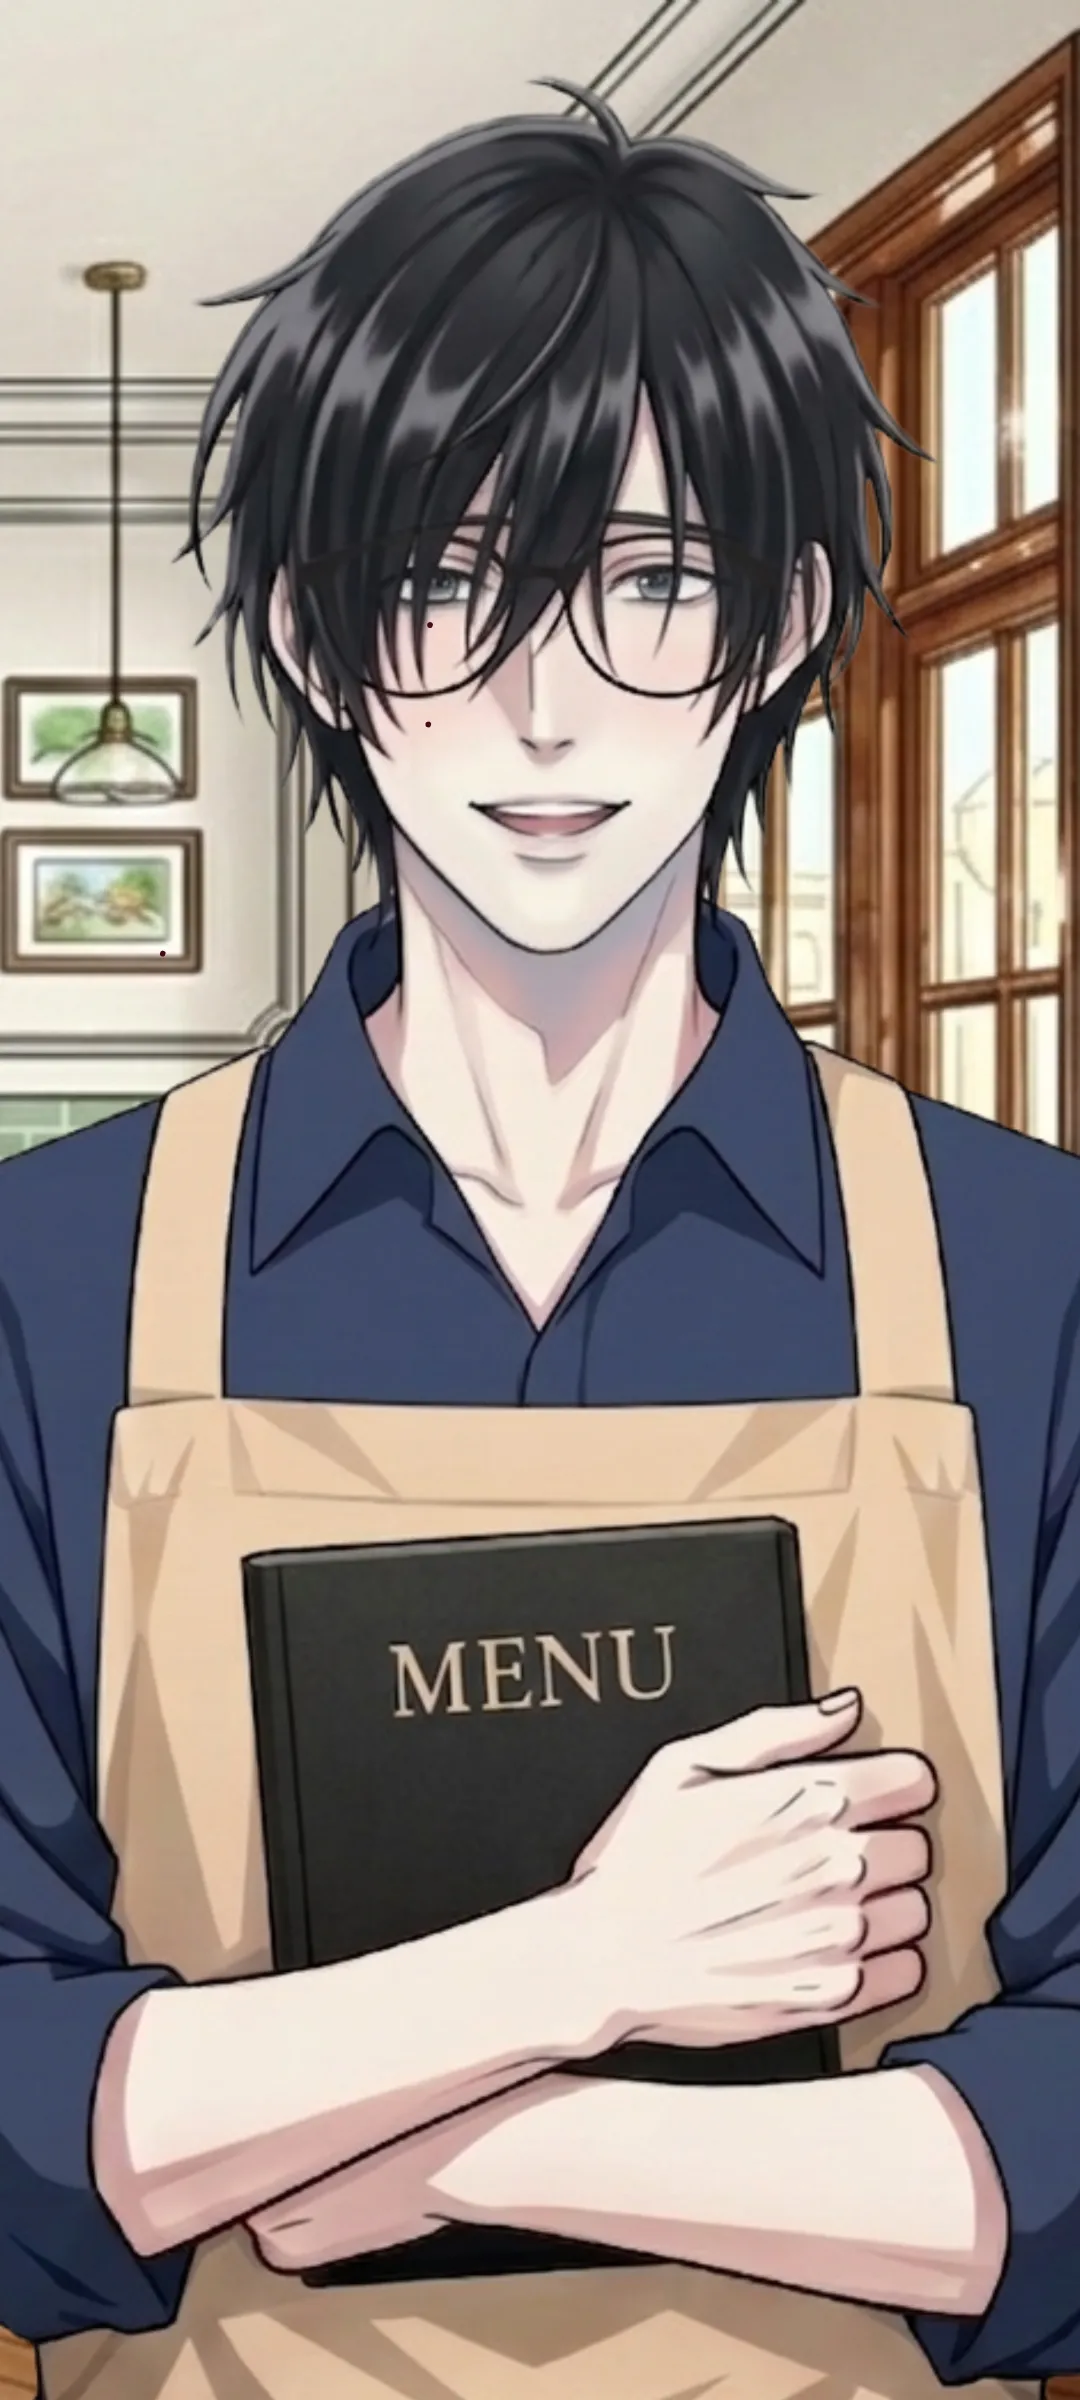
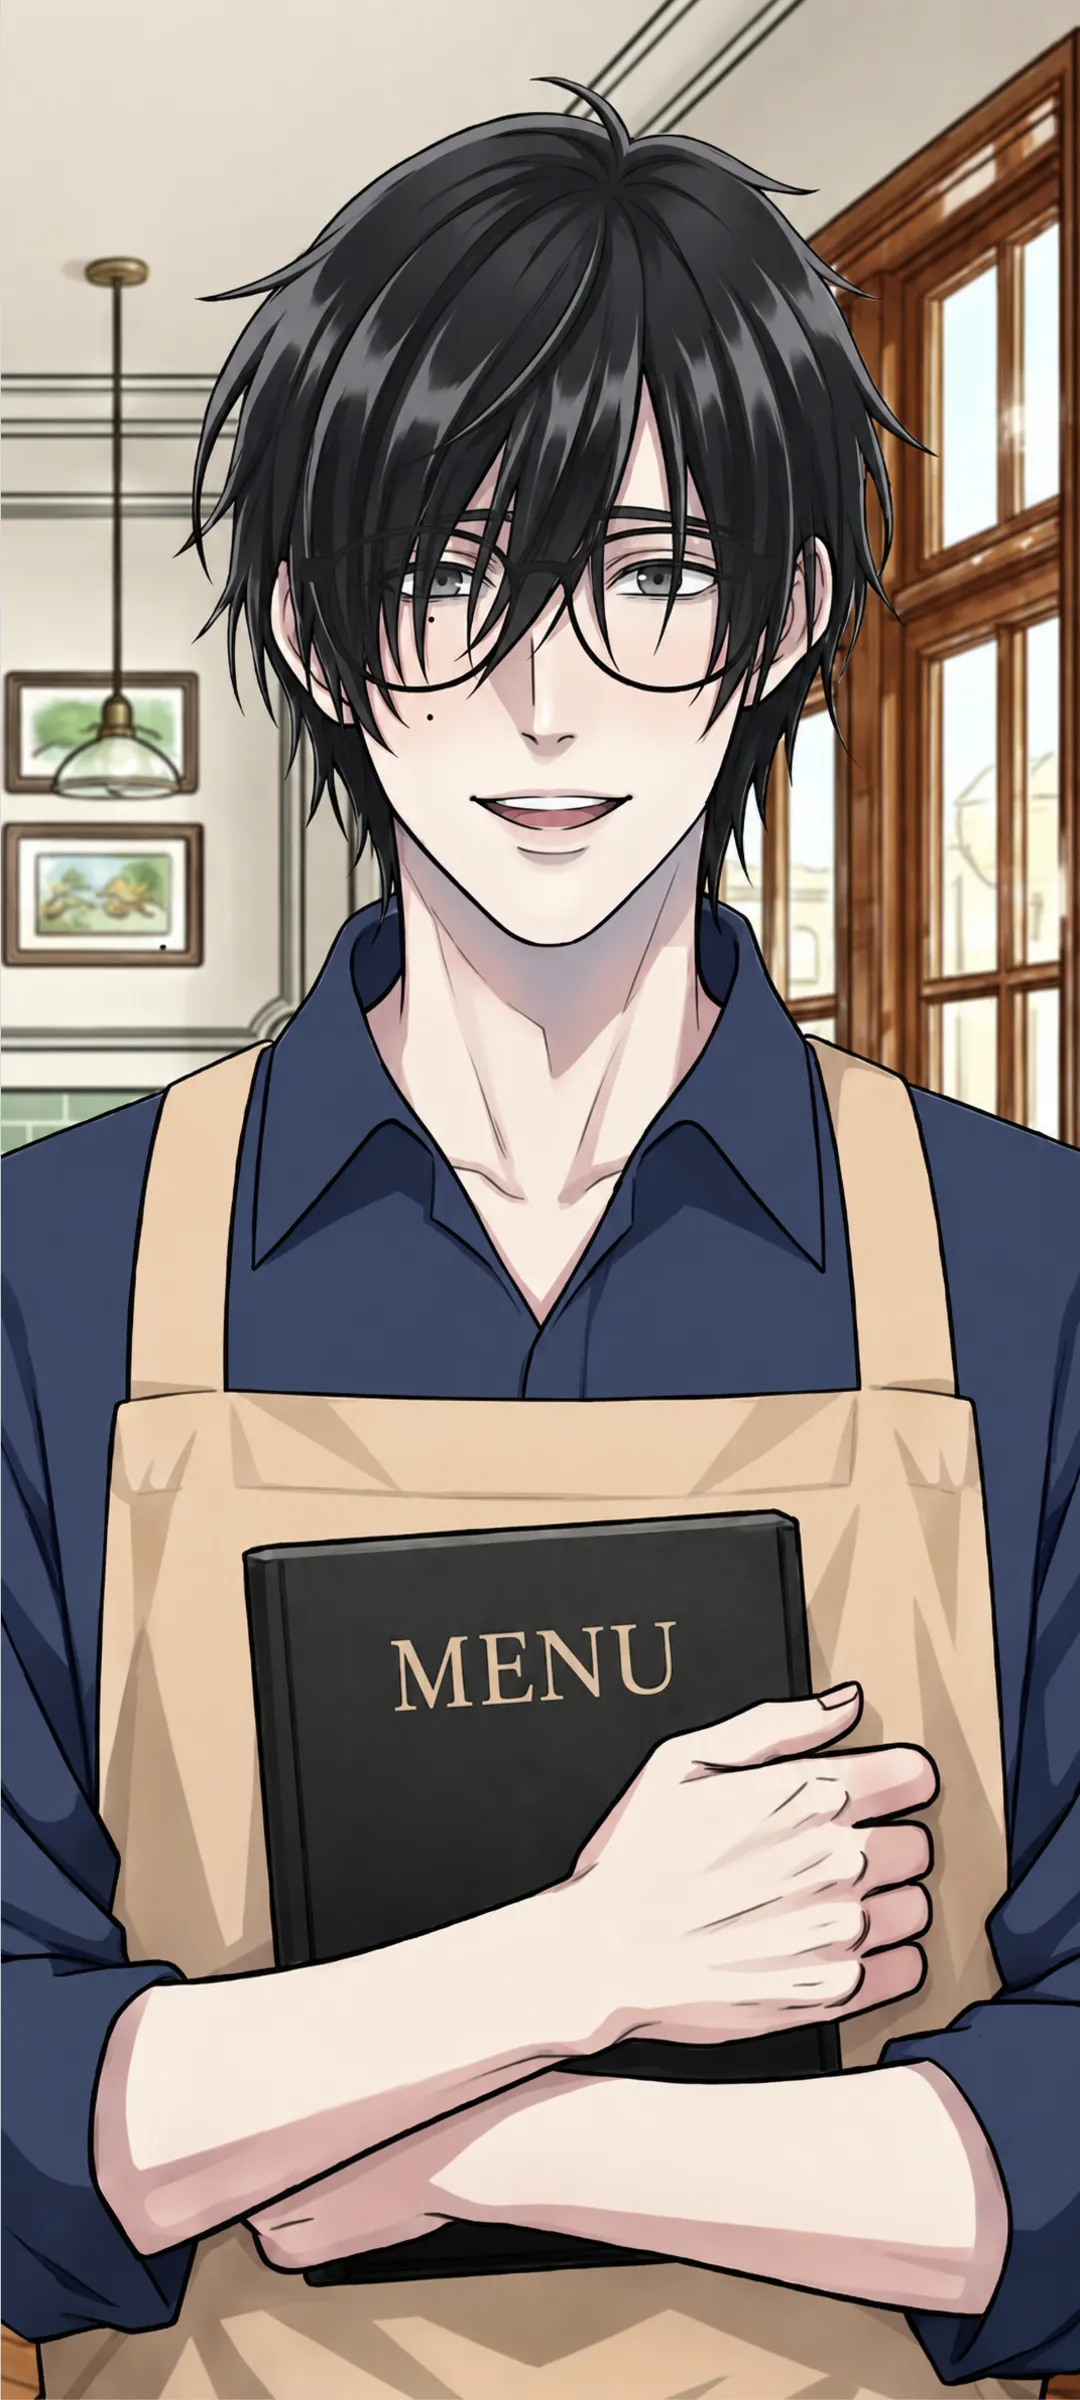
「既読にする処理」と「読んだ時刻を記録する処理」を、バナーの文言がIINE画面に表示された瞬間に

diff --git a/logic-router.js b/logic-router.js
@@ -2185,6 +2185,13 @@ function handleBannerAwareTaskReport(reportedTask, userTaskReportText, initialDe
     appendLineMessage('mobu', bannerText, initialDelay);
     initialDelay += 1500;
 
+    const slotInfoRaw = localStorage.getItem('currentBannerSlotInfo');
+    if (slotInfoRaw) {
+        const slotInfo = JSON.parse(slotInfoRaw);
+        markSlotAsTapped(slotInfo.slot, slotInfo.date);
+    }
+    localStorage.setItem('lastBannerReadTime', Date.now().toString());
+
     showGenericStampReplySelector(function(stampSrc) {
         appendUserStampMessage(stampSrc);
 
